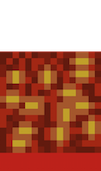
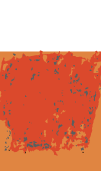
Add new assets & remove unused

diff --git a/js/app.js b/js/app.js
@@ -6,11 +6,11 @@
  * ENEMY_START_ settings are positioning the bugs to begin off the canvas.
  */
 
-/* TO DO - Set difficult rating. Keep score. Collect gems.
+/* TO DO - Keep score. Collect gems.
  */
 
 var CANVAS_WIDTH = 606,
-    CANVAS_HEIGHT = 606;
+    CANVAS_HEIGHT = 688;
 
 var TILE_WIDTH = 101,
     TILE_HEIGHT = 82;
@@ -35,23 +35,62 @@ var PLAYER_START_X = 0,
 
 var ENEMY_START_X = (-0.1*CANVAS_WIDTH);
 
+var SCORE = 0;
+
+//allEnemies.forEach(checkCollisions2(this,enemy));
+
+
+/* SETUP HELPER CLASS
+ * We will use this area to setup general methods that are not unique to a
+ * specific object and can be used throughout the game by all objects.
+
+
+var Helper = function() {};  */
+
+
+/* SETUP SCORE KEEPER */
+
+var drawScore = function() {
+    ctx.save();
+    ctx.fillStyle = "rgba(0, 0, 0, 1)";
+    ctx.font = "35px 'Amatic SC', cursive";
+    ctx.textAlign = "left";
+    ctx.fillText("Hey Ninja, you have collected "+ SCORE + " diamond swords",
+        ctx.canvas.width - 530, ctx.canvas.height - 70);
+    ctx.restore();
+}
+
+var checkCollisions2 = function(player, object) {
+    if (
+        player.x < object.x + (object.width-25) &&
+        object.x < player.x + (player.width-25) &&
+        player.y < object.y + (player.height-98) && // Top of Player & Bottom Enemy
+        object.y < player.y + (player.height-105) // Bottom of Player & Top Enemy
+        ) {
+            player.reset();
+            SCORE = 0;
+    }
+};
 
 /* SETUP GEMS
  * There needs to be a purpose to this game so let's put some gems on there for
  * the player to collect.
+ * TO DO - get gem collision working
  */
 
-var Gem = function(y) {
+var Gem = function() {
     this.sprite = 'images/diamond-sword.png';
     this.width = SPRITE_WIDTH;
     this.height = SPRITE_HEIGHT;
-    this.x = TILE_WIDTH * (Math.floor(Math.random() * 5));
-    this.y = TILE_HEIGHT * (Math.floor(Math.random() * 5)) ;
+    this.x = TILE_WIDTH * (Math.floor(Math.random() * 5)); // spawn in random location
+    this.y = TILE_HEIGHT * (Math.floor(Math.random() * 5));
+    this.reset = function() {
+        this.x = TILE_WIDTH * (Math.floor(Math.random() * 5)); // spawn in random location
+        this.y = TILE_HEIGHT * (Math.floor(Math.random() * 5));
+        };
     };
 
     Gem.prototype.update = function(dt) {
-
-        this.checkCollisions();
 
         /* We need to multiply any movement by the dt parameter to ensure the
          * game runs at the same speed for all computers.
@@ -61,25 +100,20 @@ var Gem = function(y) {
 
     };
 
+    /* We need to draw our first gem on the canvas in order to start collecting them.
+     */
+
     Gem.prototype.render = function() {
 
         ctx.drawImage(Resources.get(this.sprite), this.x, this.y);
+     //   ctx.strokeRect(this.x, this.y, 101, 171);
+        drawScore();
     };
 
-    Gem.prototype.checkCollisions = function() {
 
-        var player = player;
 
-        if (
-            gem.x === player.x &&
-            gem.y === player.x
-            ) {
-                gem.x = -SPRITE_WIDTH;
-                gem.y = 0;
-            }
-    };
+var gem = new Gem(); // gem is a global variable
 
-var gem = new Gem(505);
 
 
 /* SETUP ENEMIES
@@ -113,12 +147,15 @@ var Enemy = function(y, speedBoost) {
         this.x += this.speed * dt;
     };
 
+
     Enemy.prototype.render = function(y) {
 
         /* We need to draw our bugs on the canvas to be able to play the game.
         */
 
         ctx.drawImage(Resources.get(this.sprite), this.x, this.y);
+
+        //ctx.clearRect ( this.x, this.y, 100, 100 );
        // ctx.strokeRect(this.x, this.y, 101, 171);
     };
 
@@ -126,13 +163,14 @@ var Enemy = function(y, speedBoost) {
  * be on, and whether they are an extra speedBoost bug)
  */
 
-var allEnemies = [];
+var allEnemies = []; // we have setup 5 bugs and allEnemies is a global variable and an empty array
 
 allEnemies[0] = new Enemy(ENEMY_ROW_1, 0);
 allEnemies[1] = new Enemy(ENEMY_ROW_2, 0);
 allEnemies[2] = new Enemy(ENEMY_ROW_3, 0);
 allEnemies[3] = new Enemy(ENEMY_ROW_1, 60);
 allEnemies[4] = new Enemy(ENEMY_ROW_4, 60);
+
 
 
 /* SETUP PLAYER
@@ -145,6 +183,10 @@ var Player = function() {
     this.height = SPRITE_HEIGHT;
     this.x = PLAYER_START_X;
     this.y = PLAYER_START_Y;
+    this.reset = function() {
+        this.x = PLAYER_START_X;
+        this.y = PLAYER_START_Y;
+        };
     };
 
     Player.prototype.update = function(dt) {
@@ -162,7 +204,7 @@ var Player = function() {
 
     Player.prototype.render = function() {
         ctx.drawImage(Resources.get(this.sprite), this.x, this.y);
-    //    ctx.strokeRect(this.x, this.y, 101, 171);
+     //   ctx.strokeRect(this.x, this.y, 101, 171);
     };
 
     /* We implement a switch() method to check the user input and move our player
@@ -203,27 +245,36 @@ var Player = function() {
      */
 
     Player.prototype.checkCollisions = function() {
+
+        if (
+
+        player.x < gem.x + (gem.width-25) &&
+        gem.x < player.x + (player.width-25) &&
+        player.y < gem.y + (player.height-98) && // Top of Player & Bottom Enemy
+        gem.y < player.y + (player.height-105)
+
+            ) {
+                gem.reset();
+                SCORE++;
+            }
+
+
         for(i = 0; i < allEnemies.length; i++) {
 
             var enemy = allEnemies[i];
 
-            if (
-                this.x < enemy.x + (enemy.width-25) &&
-                enemy.x < this.x + (this.width-25) &&
-                this.y < enemy.y + (enemy.height-98) && // Top of Player & Bottom Enemy
-                enemy.y < this.y + (this.height-105) // Bottom of Player & Top Enemy
-                ) {
-                    this.x = PLAYER_START_X;
-                    this.y = PLAYER_START_Y;
-                }
+            checkCollisions2(this,enemy);
         };
+
     };
 
 
 /* Let's add in our player
  */
 
-var player = new Player();
+var player = new Player(); // player is a global variable
+
+
 
 
 /* Here we are listening for our user to input the moves it wants the

diff --git a/js/engine.js b/js/engine.js
@@ -26,7 +26,7 @@ var Engine = (function(global) {
         lastTime;
 
     canvas.width = 606;
-    canvas.height = 606;
+    canvas.height = 660;
     doc.body.appendChild(canvas);
 
     /* This function serves as the kickoff point for the game loop itself
@@ -108,14 +108,15 @@ var Engine = (function(global) {
          * for that particular row of the game level.
          */
         var rowImages = [
-                'images/lava.png',   // Top row is water
-                'images/stone.png',   // Row 1 of 4 of stone
-                'images/lava.png',   // Row 2 of 4 of stone
-                'images/lava.png',   // Row 3 of 4 of stone
-                'images/stone.png',   // Row 4 of 4 of grass
-                'images/stone.png'    // Row 1 of 1 of grass
+                'images/gravel.png',   // Top row is gravel
+                'images/lava.png',   // Row 1 of 4 of lava
+                'images/lava.png',   // Row 2 of 4 of lava
+                'images/lava.png',   // Row 3 of 4 of lava
+                'images/lava.png',   // Row 4 of 4 of lava
+                'images/gravel.png',    // Row 1 of 2 of gravel
+                'images/deep-water.png'    // No-play level of water
             ],
-            numRows = 6,
+            numRows = 7,
             numCols = 6,
             row, col;
 
@@ -170,17 +171,12 @@ var Engine = (function(global) {
      * all of these images are properly loaded our game will start.
      */
     Resources.load([
-        'images/stone.png',
-        'images/water-block.png',
-        'images/grass-block.png',
-        'images/enemy-bug.png',
-        'images/char-boy.png',
-        'images/char-cat-girl.png',
-        'images/gem-green.png',
+        'images/deep-water.png',
         'images/ninja-one.png',
         'images/spider.png',
         'images/robot.png',
         'images/diamond-sword.png',
+        'images/gravel.png',
         'images/lava.png'
 
     ]);

diff --git a/index.html b/index.html
@@ -2,13 +2,13 @@
 <html>
 <head>
     <meta charset="UTF-8">
-    <title>Escape from Ninja Planet</title>
+    <title>Escape from Planet Ninja</title>
     <link rel="stylesheet" href="css/style.css">
     <link href='https://fonts.googleapis.com/css?family=Amatic+SC' rel='stylesheet' type='text/css'>
 </head>
 <body>
 	<div id="main">
-		<h1>Escape from Ninja Planet</h1>
+		<h1>Escape from Planet Ninja</h1>
 	</div>
     <script src="js/resources.js"></script>
     <script src="js/app.js"></script>

diff --git a/css/style.css b/css/style.css
@@ -1,7 +1,17 @@
 body {
     text-align: center;
     font-family: 'Amatic SC', cursive;
-    background: #f8f8f8;
+    background: url("../images/paperback.jpg");
+}
+
+h1 {
+	font-size: 40px;
+	margin-bottom: 0px;
+}
+
+canvas {
+	margin-top: -22px;
+	border: 5px solid #000;
 }
 
 .main {
